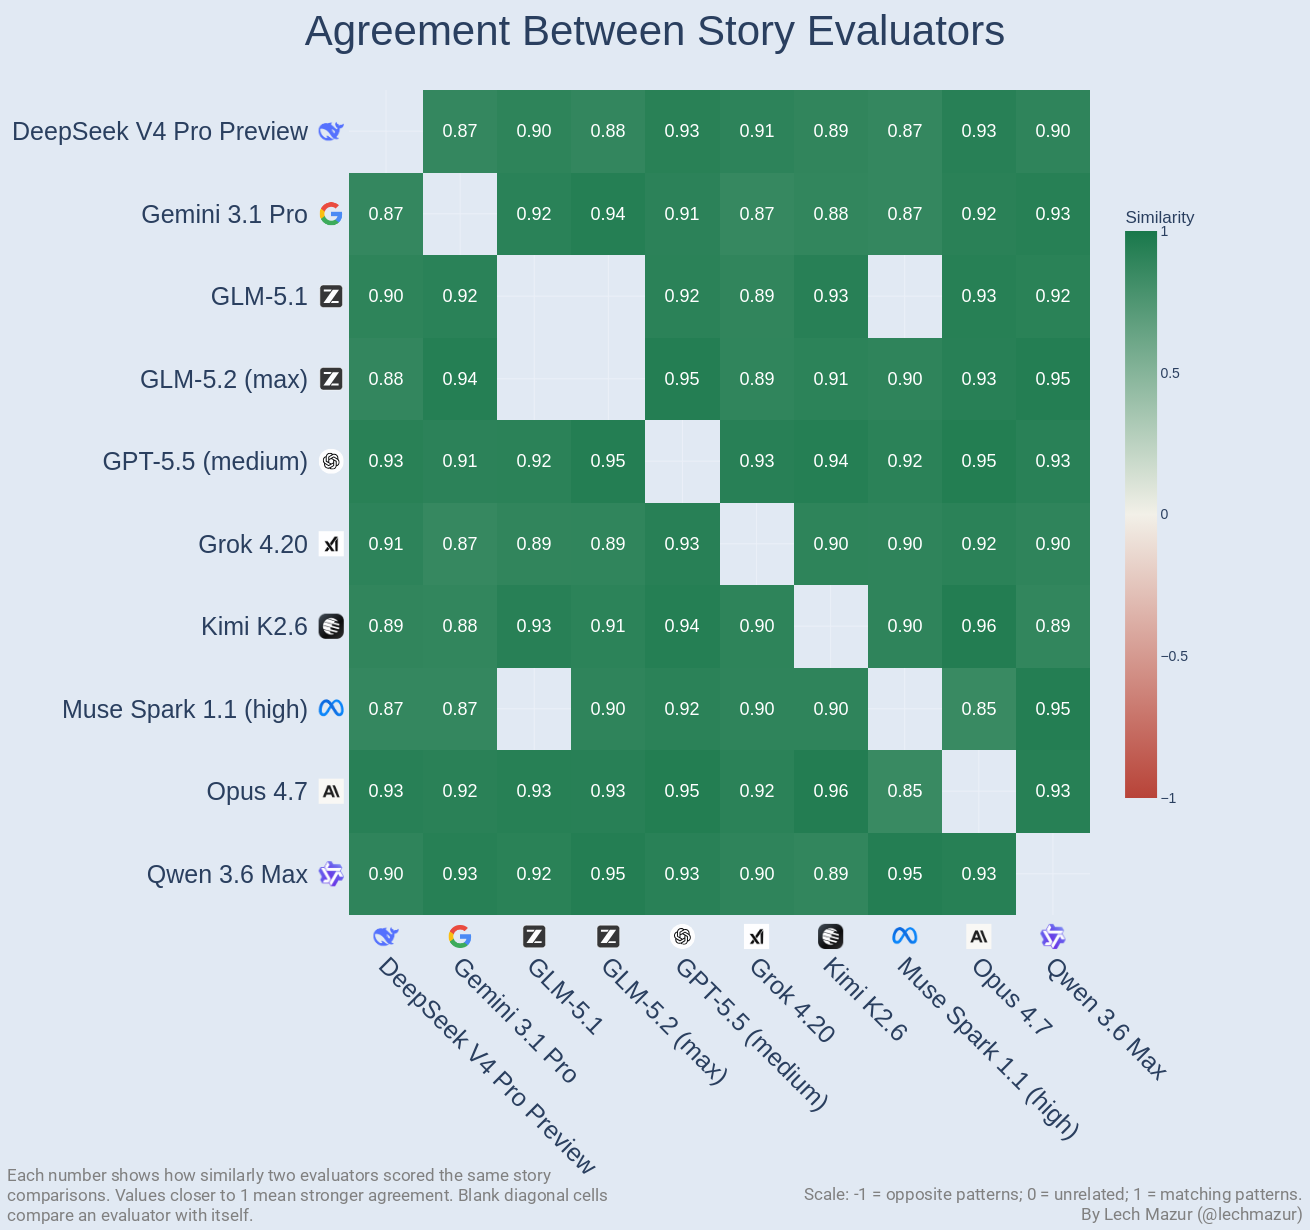
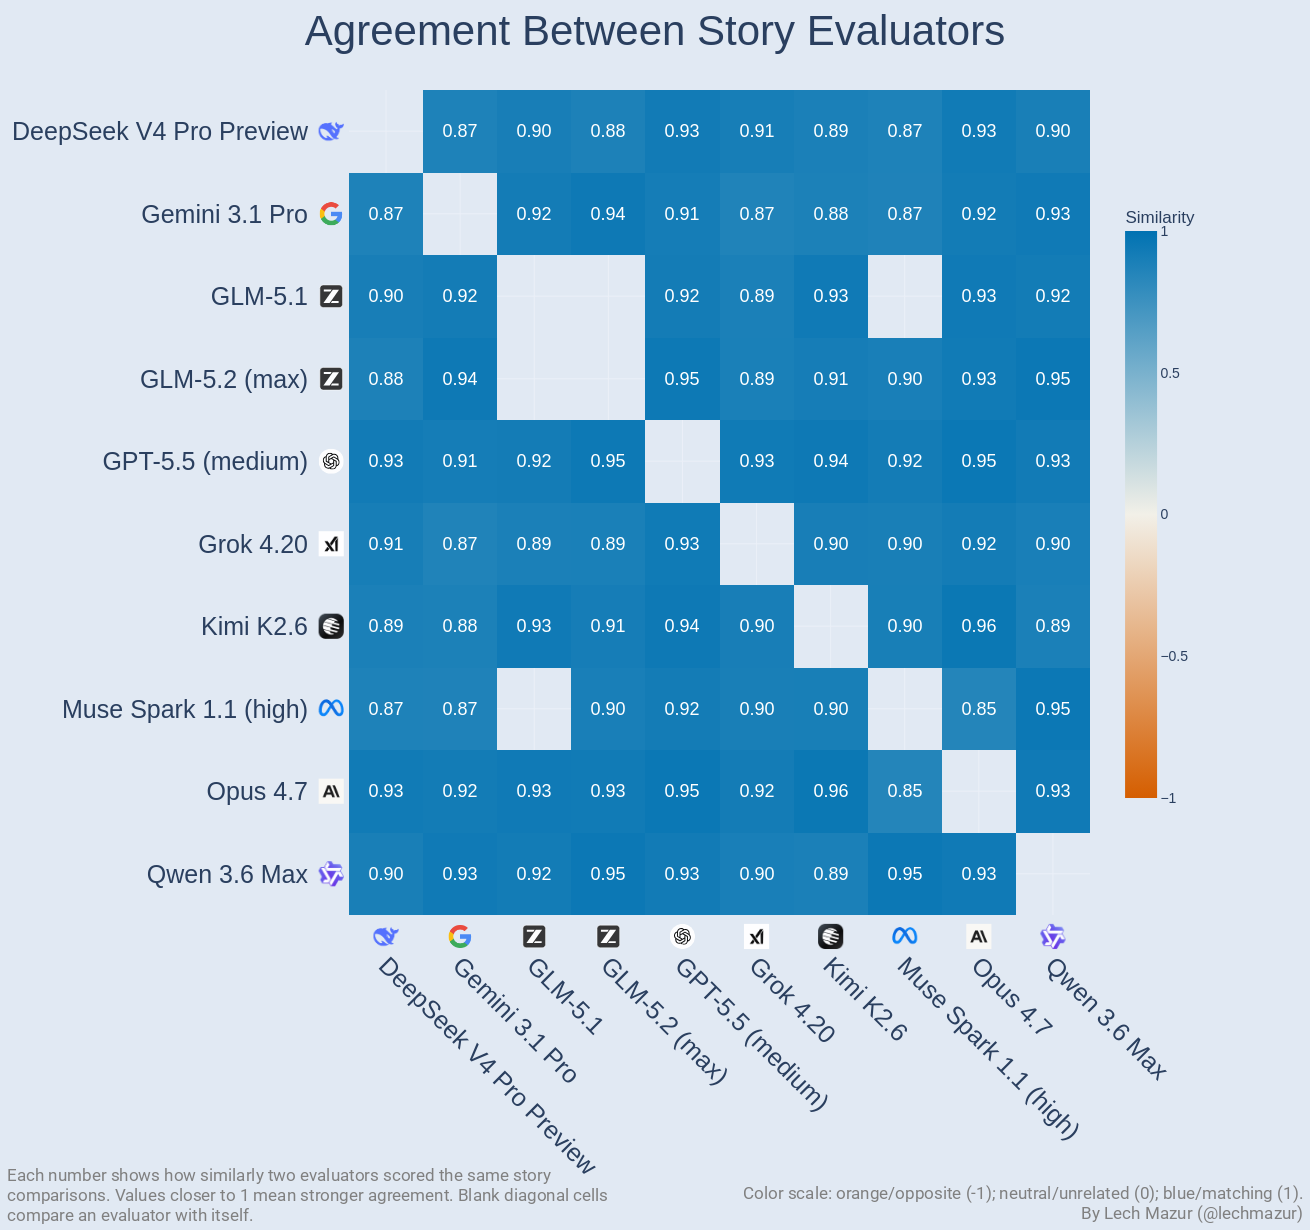
Use accessible evaluator agreement colors

diff --git a/README.md b/README.md
@@ -96,7 +96,7 @@ Read each cell by row. Red means the row model performed better, blue means the 
 
 ![Evaluator agreement matrix](images/inter_llm_comparison_evaluator_agreement.png)
 
-This chart shows how similarly the evaluator models scored the same story pairs. Values closer to 1 indicate stronger agreement; 0 means no consistent relationship, and negative values mean opposing scoring patterns.
+This chart shows how similarly the evaluator models scored the same story pairs. Values closer to 1 indicate stronger agreement; 0 means no consistent relationship, and negative values mean opposing scoring patterns. Its colorblind-safe scale uses orange for negative relationships and blue for positive relationships.
 
 ### Word Count Compliance
 
